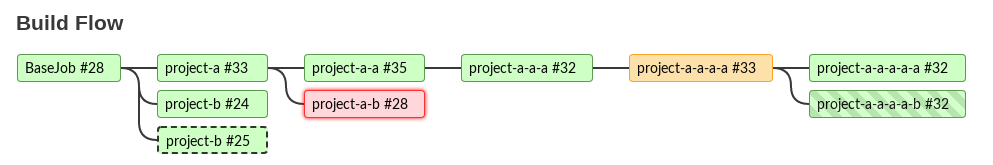
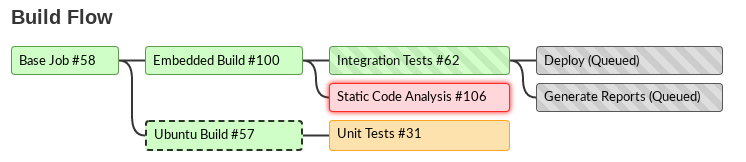
Various UI tweaks & fixes
Fix: Drop down menu disappeared after Build Flow update.
Fix: Tweaked animation to make the text more readable.
Documentation: Better screenshot

diff --git a/src/main/webapp/scripts/ajax-build-flow.js b/src/main/webapp/scripts/ajax-build-flow.js
@@ -9,7 +9,12 @@ function loadBuildFlow() {
   var xhttp = new XMLHttpRequest();
   xhttp.onreadystatechange = function() {
     if (this.readyState == 4 && this.status == 200) {
-      document.getElementById("downstream-grid").outerHTML = this.responseText;
+      var currentGrid = document.getElementById("downstream-grid");
+      var template = document.createElement("template");
+      template.innerHTML = this.responseText;
+      var newGrid = template.content.firstChild;
+      currentGrid.parentNode.replaceChild(newGrid, currentGrid);
+      Behaviour.applySubtree(newGrid);
     }
   };
   xhttp.open("GET", "yabv/ajaxBuildFlow", true);

diff --git a/src/main/webapp/css/layout.css b/src/main/webapp/css/layout.css
@@ -70,7 +70,7 @@
     left: 0;
     width: 100%;
     height: 100%;
-    opacity: .1;
+    opacity: .07;
     border-radius: 4px;
     pointer-events: none;
     background: url("../images/in_progress.gif");

diff --git a/CHANGELOG.md b/CHANGELOG.md
@@ -1,5 +1,9 @@
 # Changelog
 
+## v1.8.1:
+* Fix: Drop down menu disappeared after Build Flow update.
+* Fix: Tweaked animation to make the text more readable.
+
 ## v1.8
 * **Feature:** Try to resize Build Flow width to fit within page if possible.
 
